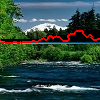
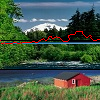
final changes

diff --git a/GraphCut/src/GraphCut.java b/GraphCut/src/GraphCut.java
@@ -3,6 +3,7 @@ import java.awt.*;
 import java.awt.image.BufferedImage;
 import java.io.File;
 import java.io.IOException;
+import java.util.List;
 import java.util.Queue;
 import java.util.*;
 
@@ -68,7 +69,9 @@ public class GraphCut {
         for(int i = 6999; i < 9999; i++){
             srcNodes.add(i);
         }
+        System.out.println("Source Pixels");
         System.out.println(srcNodes);
+        System.out.println("Target Pixels");
         System.out.println(targetNodes);
 
         Vertex[][] test = new Vertex[6][6];
@@ -85,7 +88,7 @@ public class GraphCut {
         test[5][0] =new Vertex(false, false, 0);
         long maxFLow = getMaxFlow(10001, 0,adjacencyMatrix(targetPixelValues,srcPixelValues,maskPixelValues,srcNodes,targetNodes));
         //long maxFLow = getMaxFlow(0, 5,test);
-        System.out.println(maxFLow);
+        System.out.println("Max Flow - "+maxFLow);
         writeImage(targetPixelValues, srcPixelValues);
         //getMaxFlow( 0, 5, test);
     }
@@ -242,13 +245,11 @@ public class GraphCut {
                 if (capacity[i][j] != null && capacity[i][j].edgeWeight > 0 && visited[i] && !visited[j]) {
                     System.out.println(i + " - " + j);
                     cuts.add(i);
-                    cuts.add(j);
+                    //cuts.add(j);
                 }
             }
         }
 
-        sourceDfs = new HashSet<>();
-        //dfs(10001, flow);
         return result;
 
     }
@@ -272,7 +273,7 @@ public class GraphCut {
             img.setRGB(x, y, p);
         }
         //writing pixels to an output image buffer
-        for (int y = 0; y < 100; y++)
+        for (int y = 0; y < 30; y++)
         {
             boolean isAfterCut = false;
             for (int x = 0; x < 100; x++)
@@ -280,7 +281,29 @@ public class GraphCut {
                 int pixel = img.getRGB(x, y);
                 Color pxlColor = new Color(pixel, true);
                 if(pxlColor.getRed() == 255) {
-                    isAfterCut = true;
+                    isAfterCut = !isAfterCut;
+                    continue;
+                }
+                int a, r, g, b;
+                a = targetImage.get(y).get(x).getAlpha();
+                r = targetImage.get(y).get(x).getRed();
+                g = targetImage.get(y).get(x).getGreen();
+                b = targetImage.get(y).get(x).getBlue();
+
+                int p = (a<<24) | (r<<16) | (g<<8) | b;
+
+                img.setRGB(x, y, p);
+            }
+        }
+        for (int y = 30; y < 69; y++)
+        {
+            boolean isAfterCut = false;
+            for (int x = 0; x < 100; x++)
+            {
+                int pixel = img.getRGB(x, y);
+                Color pxlColor = new Color(pixel, true);
+                if(pxlColor.getRed() == 255) {
+                    isAfterCut = !isAfterCut;
                     continue;
                 }
                 int a, r, g, b;
@@ -290,12 +313,35 @@ public class GraphCut {
                     g = targetImage.get(y).get(x).getGreen();
                     b = targetImage.get(y).get(x).getBlue();
                 } else {
-                    a = sourceImage.get(y).get(100 - x).getAlpha();
-                    r = sourceImage.get(y).get(100 - x).getRed();
-                    g = sourceImage.get(y).get(100 - x).getGreen();
-                    b = sourceImage.get(y).get(100 - x).getBlue();
+                    a = sourceImage.get(y).get(x).getAlpha();
+                    r = sourceImage.get(y).get(x).getRed();
+                    g = sourceImage.get(y).get(x).getGreen();
+                    b = sourceImage.get(y).get(x).getBlue();
                 }
 
+
+                int p = (a<<24) | (r<<16) | (g<<8) | b;
+
+                img.setRGB(x, y, p);
+            }
+        }
+
+        for (int y = 70; y < 100; y++)
+        {
+            boolean isAfterCut = false;
+            for (int x = 0; x < 100; x++)
+            {
+                int pixel = img.getRGB(x, y);
+                Color pxlColor = new Color(pixel, true);
+                if(pxlColor.getRed() == 255) {
+                    isAfterCut = !isAfterCut;
+                    continue;
+                }
+                int a, r, g, b;
+                a = sourceImage.get(y).get(x).getAlpha();
+                r = sourceImage.get(y).get(x).getRed();
+                g = sourceImage.get(y).get(x).getGreen();
+                b = sourceImage.get(y).get(x).getBlue();
 
                 int p = (a<<24) | (r<<16) | (g<<8) | b;
 
@@ -306,4 +352,5 @@ public class GraphCut {
         File f = new File("/Users/akshithreddyc/Desktop/Workplace/GraphCut/output.png");
         ImageIO.write(img, "png", f);
     }
+
 }

diff --git a/README.md b/README.md
@@ -7,6 +7,7 @@ We have done Image synthesis for the hut and mountain image. We have resized the
 image means more nodes and a larger adjacency matrix. Taking a very large adjacency matrix is causing a No memory exception.
 
 For compiling and running the code run the following commands
+Change file name in line 18, 19, 20 and 252
 $ cd GraphCut/src
 $ javac GraphCut.java
 $ java GraphCut
@@ -17,3 +18,4 @@ The code dumps the following data to stdout
 * Cuts between vertexes
 * Max flow of the graph
 
+There is a log.txt file which is the output of my program. This is just to show that the code is working.
